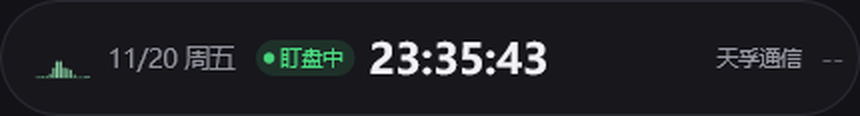
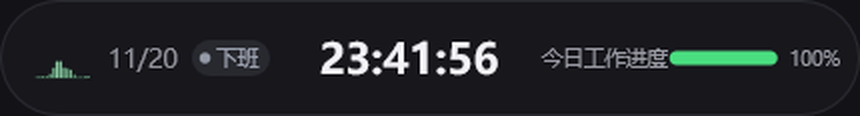
docs: 修正 README 胶囊截图错配 + 截图数据脱敏(薪资/自选股/作息)

Changed region(s): [[0.2116, 0.3362, 0.9977, 0.6724]]

diff --git a/README.md b/README.md
@@ -8,11 +8,11 @@
 
 ## 截图
 
-以下截图均由本机运行的 **v0.16.3** 实体程序导出（用程序自带的 `--preview* / --demo` 离屏渲染参数，绘制路径与实机完全一致，非设计稿）；示例日程 / 待办 / 剪贴板为演示数据，不含作者隐私。
+以下截图均由本机运行的 **v0.16.3** 实体程序导出（用程序自带的 `--preview* / --demo` 离屏渲染参数，绘制路径与实机完全一致，非设计稿）。日程 / 待办 / 剪贴板为演示数据；薪资、作息、自选股均为泛化示例值，不含作者隐私。
 
 ### 胶囊：时间到秒 + 打工人情报轮播
 
-| 今天已经赚了多少 | 工作进度条 | 距下班倒计时 |
+| 今天已经赚了多少 | 今日工作进度条 | 已下班计时（动态切换倒计时） |
 | --- | --- | --- |
 | ![胶囊·金额](docs/screenshots/pill-work-earn.png) | ![胶囊·进度](docs/screenshots/pill-work-progress.png) | ![胶囊·倒计时](docs/screenshots/pill-work-countdown.png) |
 
